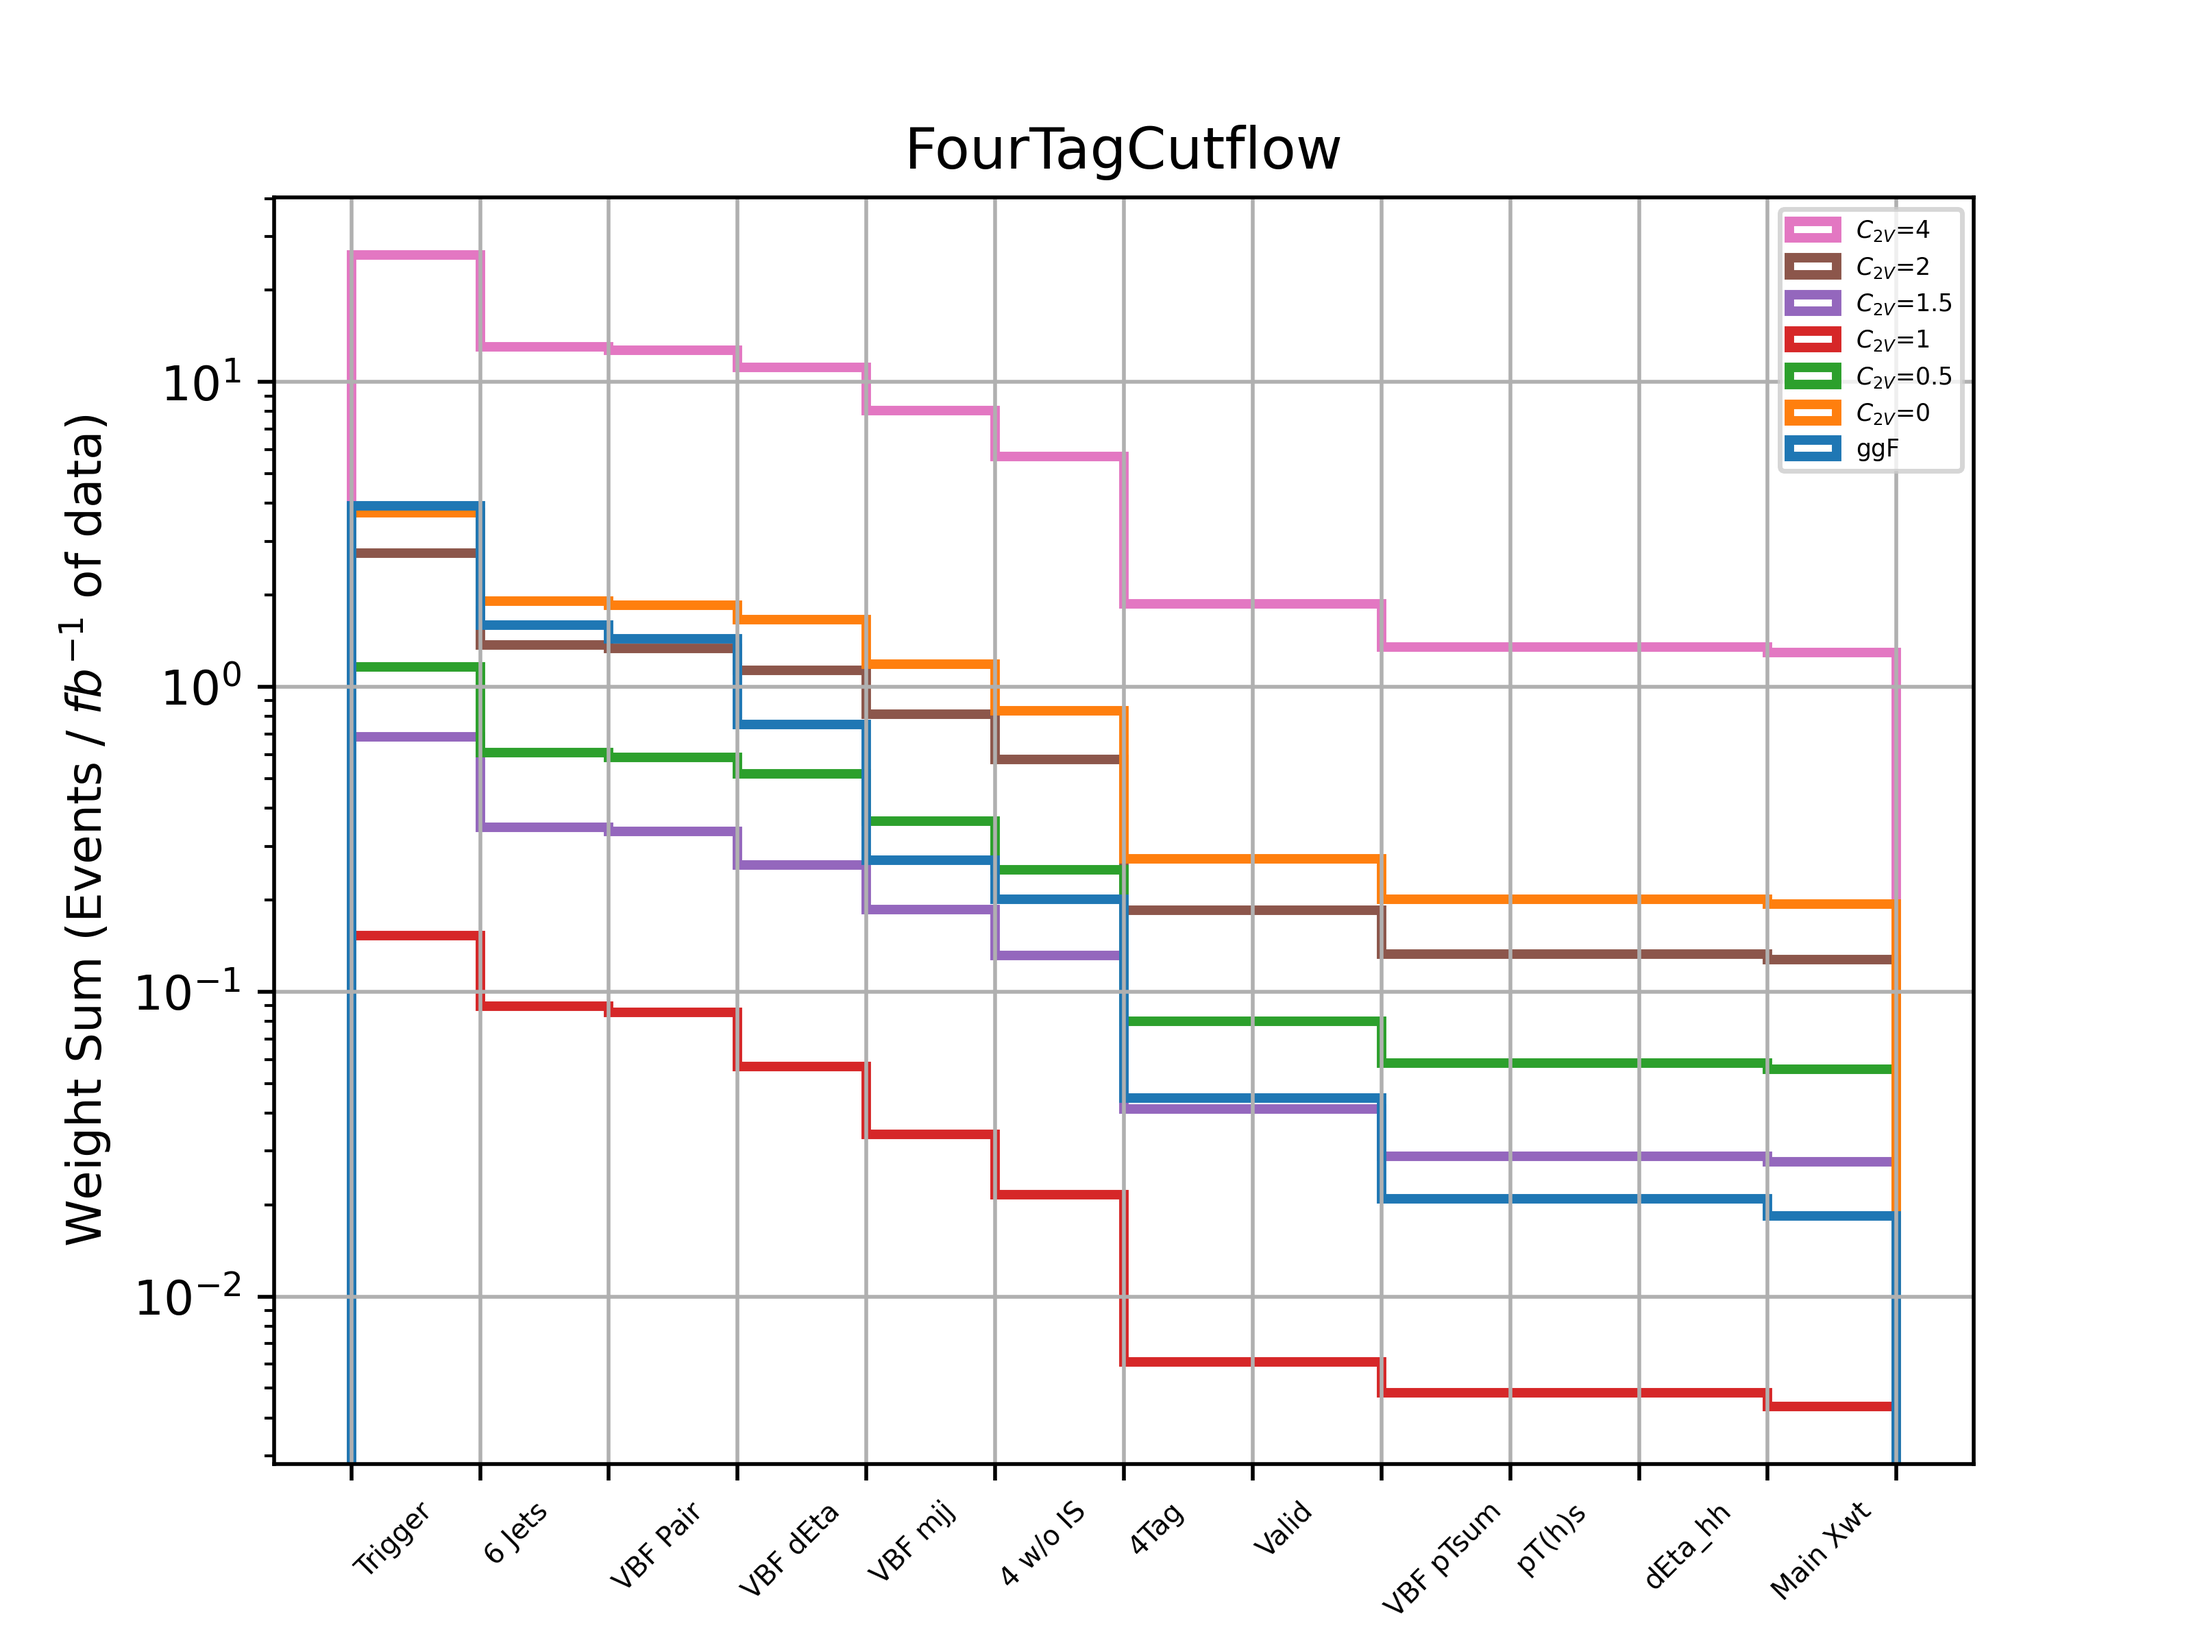
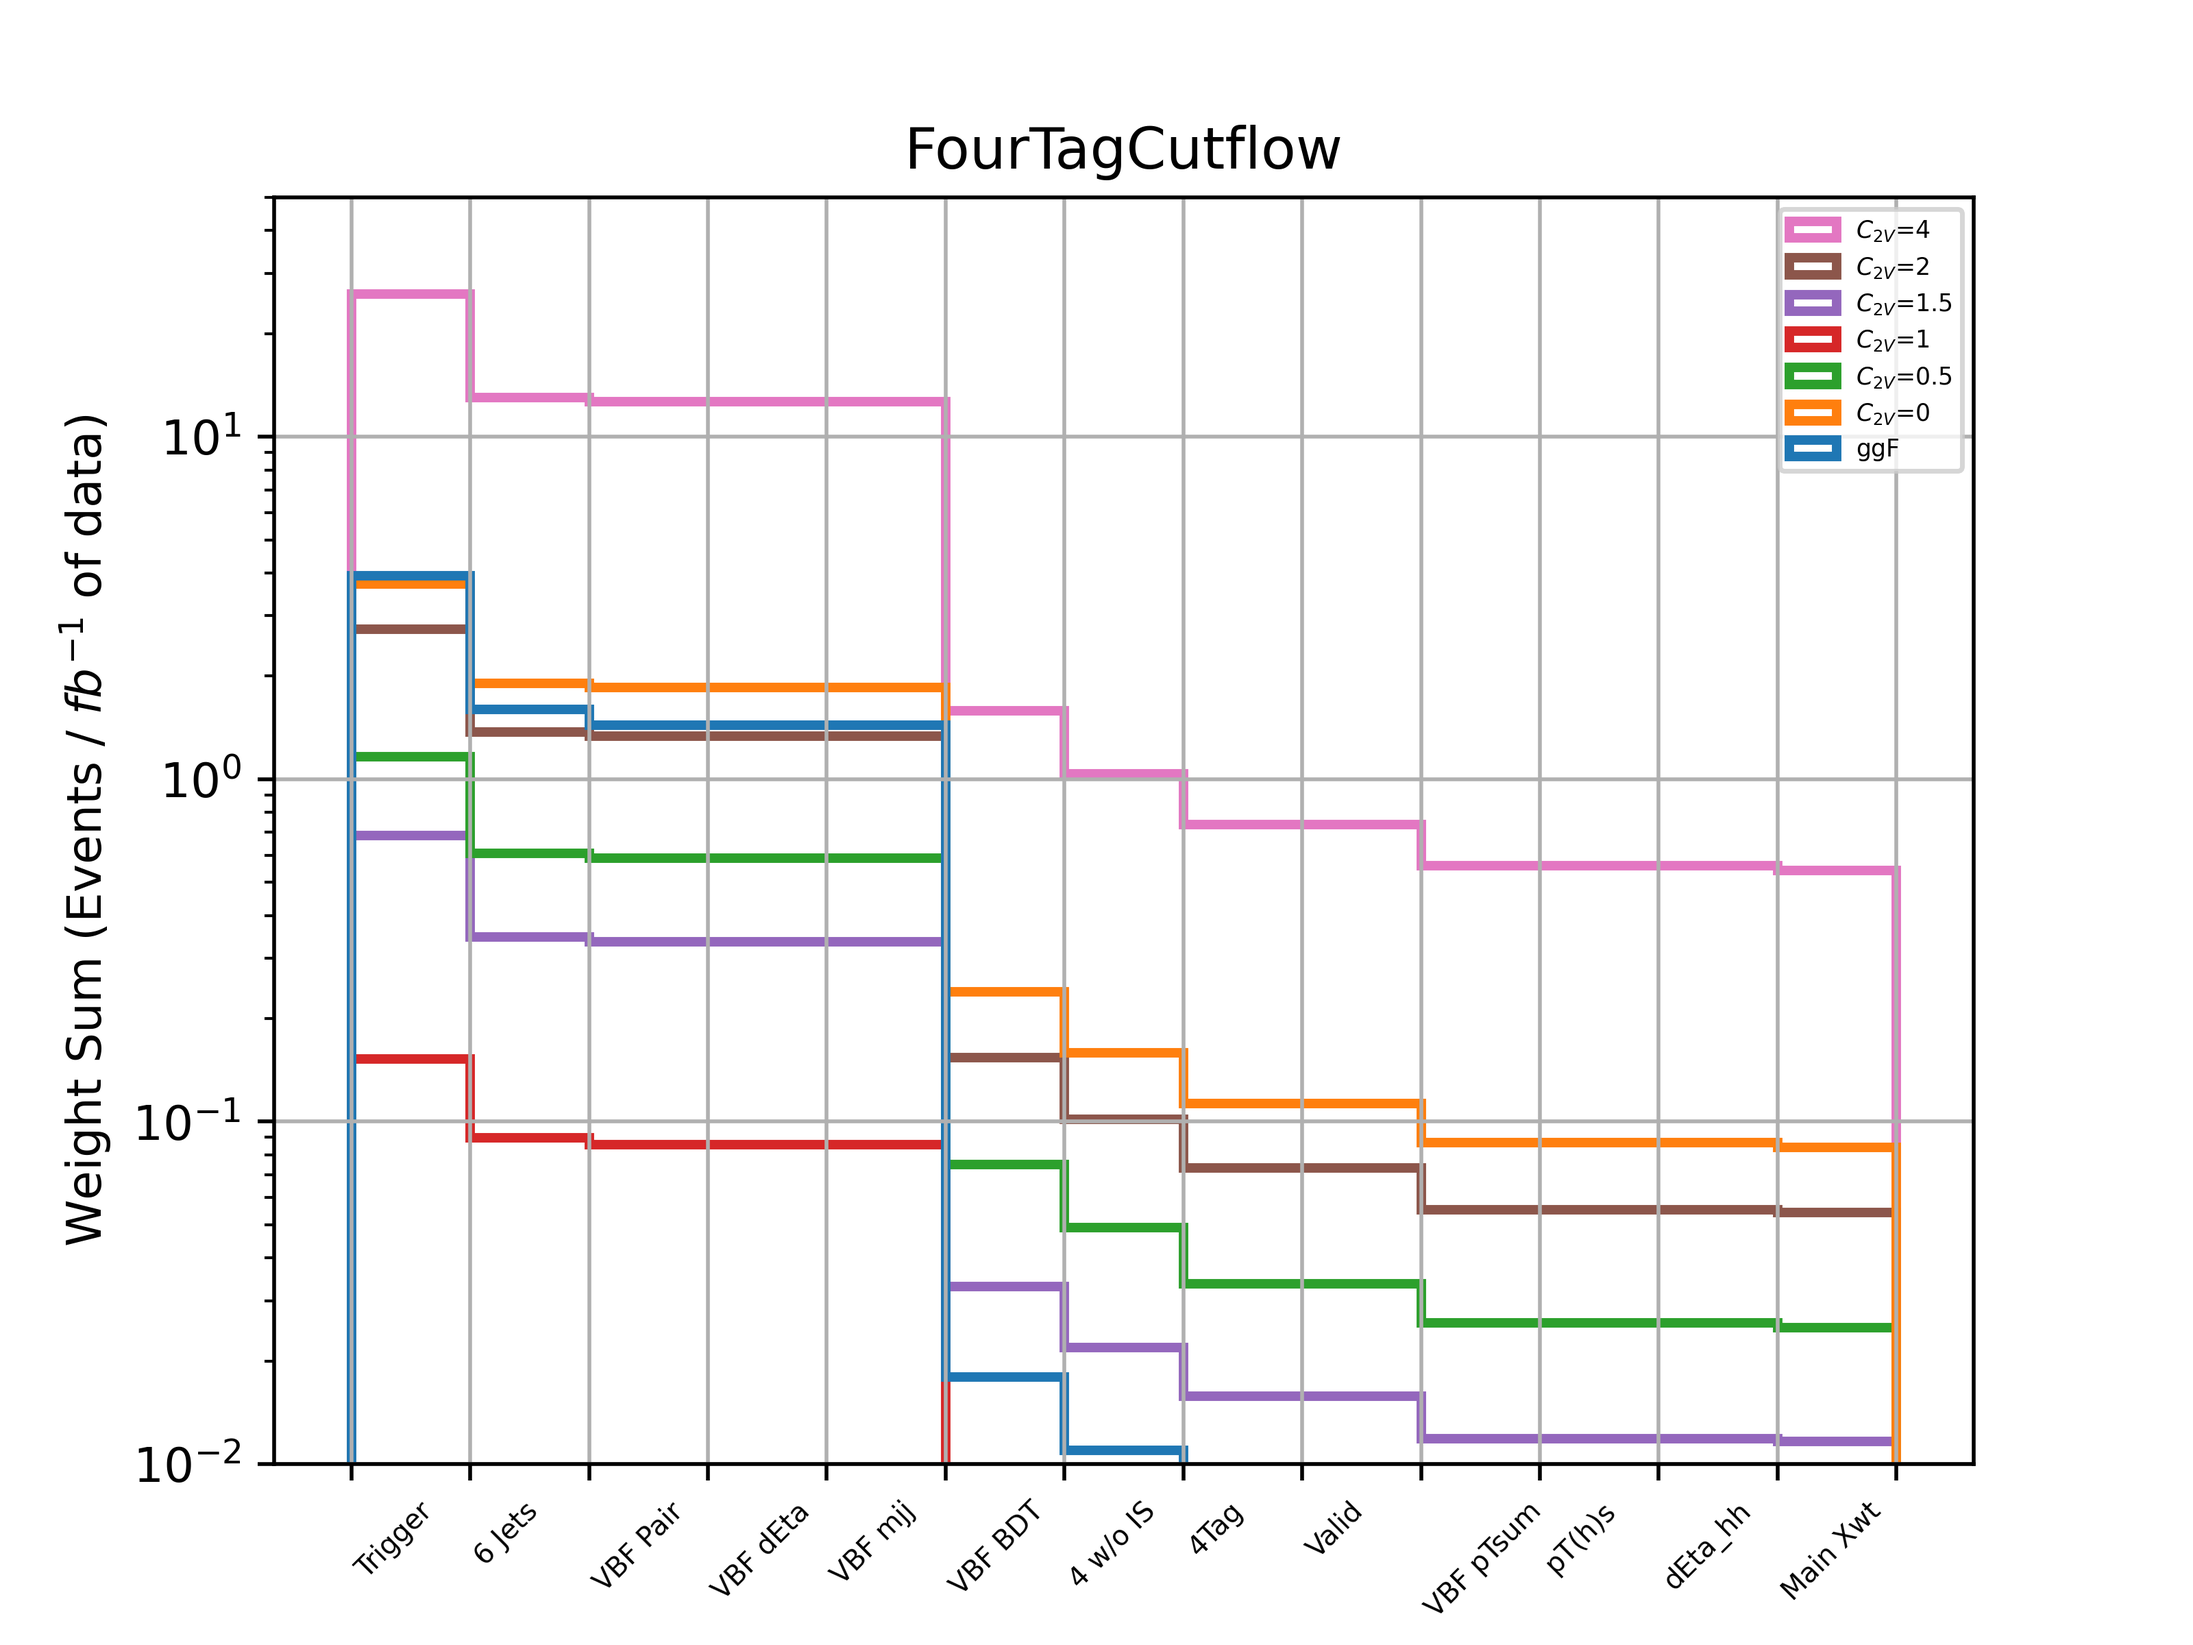
last minute fixes

diff --git a/dihiggs_4b_20200716/dihiggs_new_studies.tex b/dihiggs_4b_20200716/dihiggs_new_studies.tex
@@ -3,8 +3,8 @@
 \displaytwo{Naive Cutflow Performance}{
     Using same ggF rejection level (BDT cut=0.05) as the default selection method leads to unexpected boost in ggF acceptance downstream. 
 }
-{cutflows/general}
-{cutflows/new}
+{cutflows/cutflow_4tag_old}
+{cutflows/cutflow_4tag_new_bad}
 
 
 \displayonelarge{Comparison of Final Throughput for Various \cvv Values }{
@@ -22,5 +22,5 @@
 \displaytwo{Cutflow Performance at Higher Rejection}{
     Using a BDT cut at 10\% efficiency level (BDT cut=0.3) initially causes VBF efficiency to plummet, but later selection cuts make up for this, while ggF acceptance remains low.
 }
-{cutflows/general}
-{cutflows/better}
+{cutflows/cutflow_4tag_old}
+{cutflows/cutflow_4tag_new}

diff --git a/dihiggs_4b_20200716/main.tex b/dihiggs_4b_20200716/main.tex
@@ -5,7 +5,7 @@
 \begin{document}
     \title{Update on VBF/ggF Separation BDT}
     \author{Chris Milke}
-    \date{17 July, 2020}
+    \date{16 July, 2020}
 
     \frame{\titlepage}
     \frame{\frametitle{Overview} \tableofcontents}
@@ -25,6 +25,7 @@
     }
 
     \announcesection{Backup}
+    \displaytwo{TwoTag Cutflow}{}{cutflows/cutflow_2tag_old}{cutflows/cutflow_2tag_new}
     \fullscreenimage{ROC Curves!}{rocs/roc_explanation}
     \fullscreenimage{}{Xwt_plots/final_weight_comparison_FourTagCutflow_with_cvv4}
     \fullscreenimage{}{Xwt_plots/final_weight_comparison_TwoTagCutflow}

diff --git a/dihiggs_4b_20200716/dihiggs_current_status.tex b/dihiggs_4b_20200716/dihiggs_current_status.tex
@@ -2,7 +2,7 @@
 
 \displayonelarge{VBF Selection Process Overview}{
     Ultimate goal is reducing the ratio of ggF events to VBF events. Focus so far has been in the ``VBF dEta'' and ``VBF mjj'' selection steps.
-}{cutflows/general}
+}{cutflows/cutflow_4tag_old}
 
 \displayonelarge{Current VBF/ggF Separation Performance}{
     Current VBF/ggF separation is achieved using a BDT with inputs:
